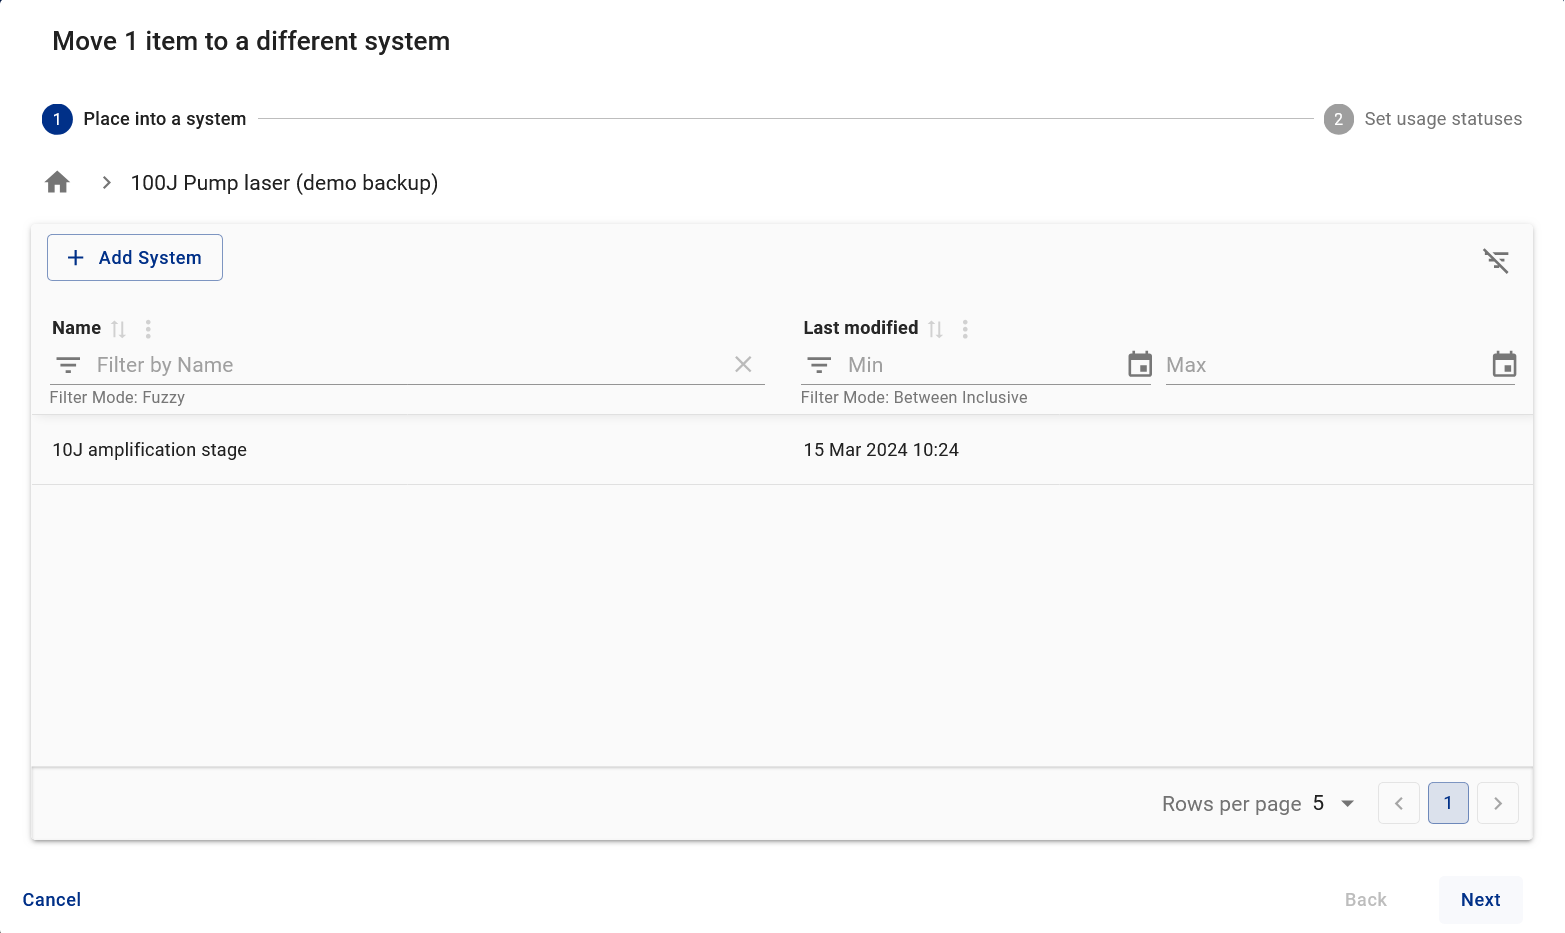
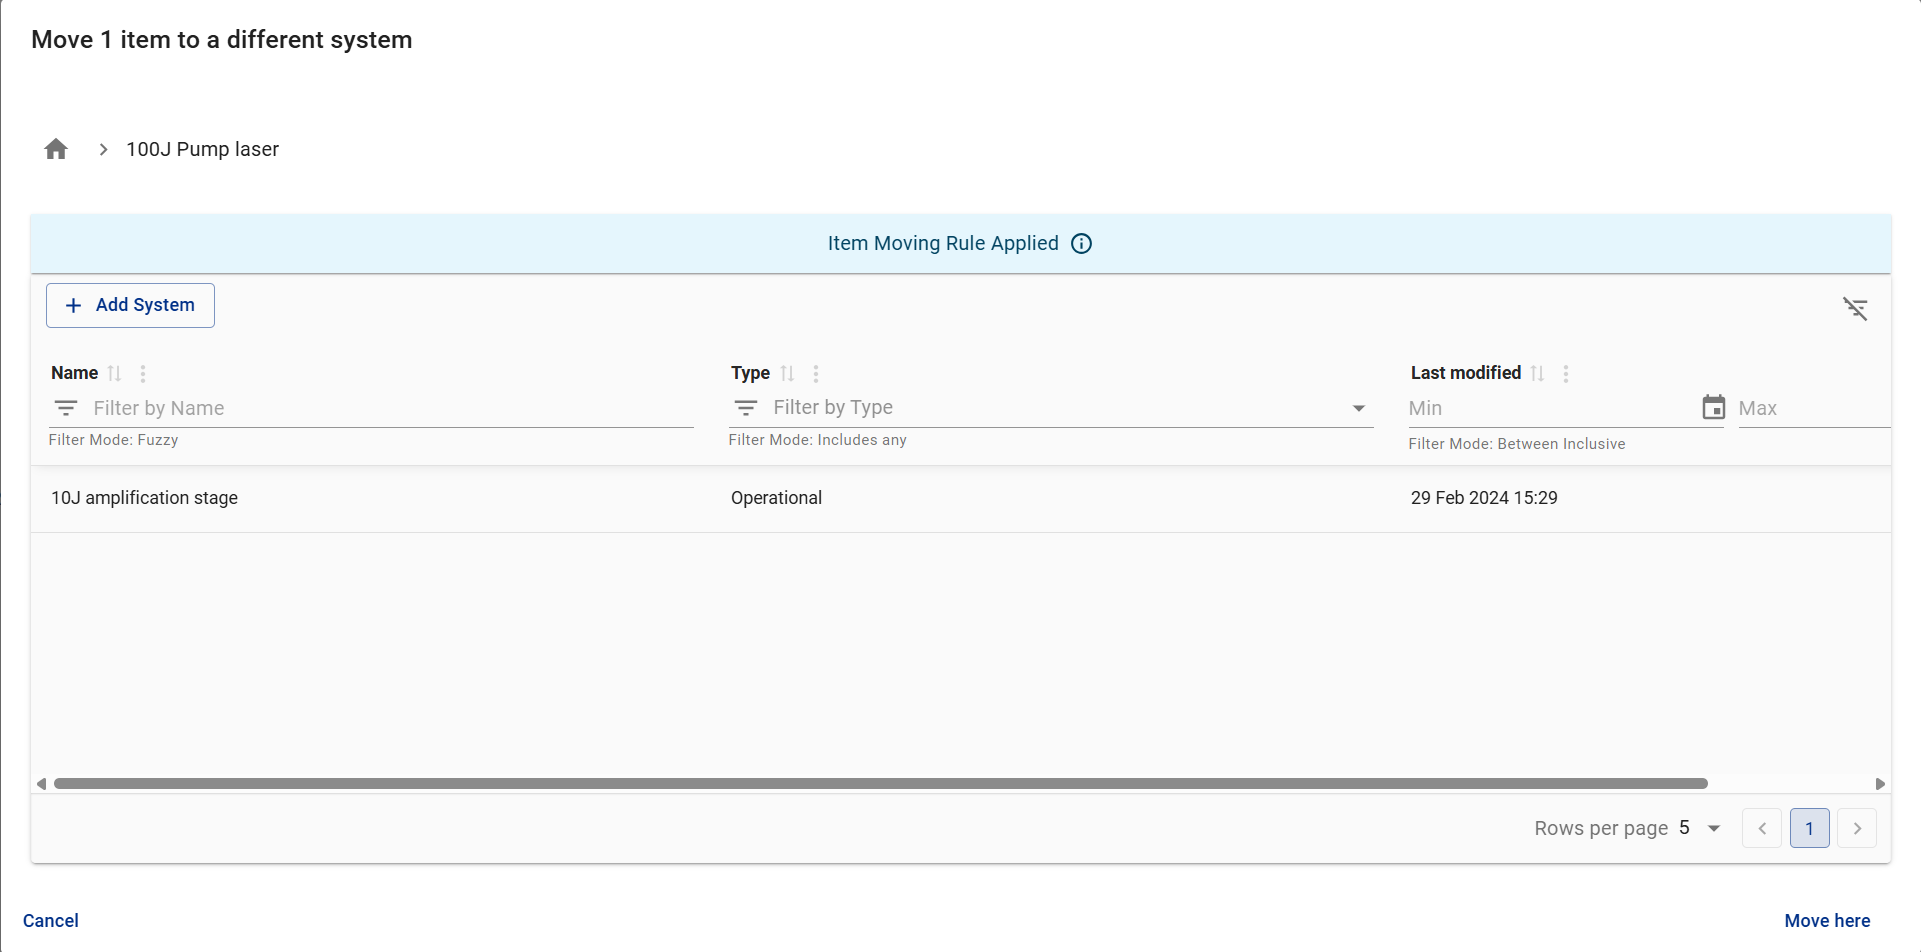
V3 changes

diff --git a/src/app/page.tsx b/src/app/page.tsx
@@ -20,9 +20,9 @@ import React from 'react';
 const sections = [
   { label: 'Introduction', id: 'introduction' },
   { label: 'The Problem', id: 'problem' },
-  { label: 'The Solution', id: 'solution' },
-  { label: 'The Software', id: 'software' },
-  { label: 'Future Work', id: 'future-work' },
+  { label: 'Our Solution', id: 'solution' },
+  { label: 'Applications', id: 'applications' },
+  { label: 'Quick Glance', id: 'overview' },
   { label: 'Contact Us', id: 'contact' },
 ];
 const APP_BAR_HEIGHT = '64px';
@@ -171,7 +171,7 @@ export default function Home() {
       <Container maxWidth="lg" sx={{ py: 6 }}>
         <Box id="title" sx={{ mb: 6, textAlign: 'center' }}>
           <Typography variant="h2" color="primary" gutterBottom>
-            Inventory Management System (IMS)
+            Inventory Management System
           </Typography>
         </Box>
 
@@ -190,13 +190,15 @@ export default function Home() {
         </Box>
 
         <Box id="problem" sx={{ mb: 6, scrollMarginTop: APP_BAR_OFFSET }}>
-          <Typography variant="h4" gutterBottom>
+            <Typography variant="h4" gutterBottom>
             The Problem
           </Typography>
+          
           <Typography variant="body1">
-            Traditional inventory tracking methods such as spreadsheets and
-            static documents struggle to scale with growing operational
-            complexity. As facilities expand, the need for a centralised,
+            Modern research facilities rely on complex infrastructures where downtime 
+            can be costly and disruptive. Traditional inventory tracking methods 
+            such as spreadsheets and static documents struggle to scale with growing 
+            operational complexity. As facilities expand, the need for a centralised,
             dynamic, and scalable inventory solution becomes critical to ensure
             efficiency and reduce downtime.
           </Typography>
@@ -204,15 +206,94 @@ export default function Home() {
 
         <Box id="solution" sx={{ mb: 6, scrollMarginTop: APP_BAR_OFFSET }}>
           <Typography variant="h4" gutterBottom>
-            The Solution
+            Our Solution
           </Typography>
 
           <Typography variant="body1" sx={{ mb: 3 }}>
-            IMS offers a centralised platform for managing inventory across
-            systems. It enhances availability, supports forecasting, reduces
+            IMS offers a centralised web-based platform for managing inventory across
+            systems. Categorise different parts, create individual records for physical entities. Move them 
+between systems, tracking their usage condition. IMS keeps track of spares, so you will 
+always know when the best time to order new parts is. IMS enhances availability, supports forecasting, reduces
             operational costs, and minimises downtime. The system is
             continuously evolving, with new features and improvements being
             released based on user feedback and operational needs.
+          </Typography>
+
+          <Box sx={{ mx: 'auto', width: '100%', maxWidth: 'lg' }}>
+                {/* eslint-disable-next-line @next/next/no-img-element */}
+                <img
+                  src={'/inventory-management-system-project/ims-systems-perspective-detailed.png'}
+                  alt={'IMS architecture overview'}
+                  style={{
+                    width: '100%',
+                    height: 'auto',
+                    borderRadius: 8,
+                    background: '#fff',
+                  }}
+                />
+                <Typography
+                  variant="caption"
+                  display="block"
+                  align="center"
+                  sx={{ my: 1 }}
+                >
+                  <strong>IMS structure overview:</strong> Detailed categorisation, for catalogue items and systems. 
+                  Items which can move dynamically between systems. Our solution provides a comprhensive overview of your inventory.
+                  
+                </Typography>
+              </Box>
+        </Box>
+
+        <Box id="applications" sx={{ mb: 6, scrollMarginTop: APP_BAR_OFFSET }}>
+            <Typography variant="h4" gutterBottom>
+            Applications
+          </Typography>
+          <Typography variant="body1">
+            How can IMS apply to you
+          </Typography>
+          <List sx={{ pl: 3, mb: 2 }}>
+            <ListItem disableGutters>
+              <ListItemText
+                primary={
+                  <Typography variant="body1">
+                    <strong>Transportation & Logistics</strong> - Manage parts for vehicles, equipment, and infrastructure across depots and distribution hubs.
+                  </Typography>
+                }
+              />
+            </ListItem>
+            <ListItem disableGutters>
+              <ListItemText
+                primary={
+                  <Typography variant="body1">
+                    <strong>Manufacturing</strong> - Manage machine components, tooling, and maintenance-critical parts across production lines.
+                  </Typography>
+                }
+              />
+            </ListItem>
+            <ListItem disableGutters>
+              <ListItemText
+                primary={
+                  <Typography variant="body1">
+                    <strong>Healthcare</strong> - Manage parts for equipment used at healthcare facilities.
+                  </Typography>
+                }
+              />
+            </ListItem>
+            <ListItem disableGutters>
+              <ListItemText
+                primary={
+                  <Typography variant="body1">
+                    <strong>Research Facilities</strong> - Manage specialised parts for instruments, laboratories, and experimental infrastructure.
+                  </Typography>
+                }
+              />
+            </ListItem>
+          </List>
+        </Box>
+          
+        <Box id='overview'>
+          <Typography variant="h4" gutterBottom>
+            Quick Glance
           </Typography>
 
           <Typography variant="body1" sx={{ mb: 4 }}>
@@ -230,8 +311,9 @@ export default function Home() {
                     <strong>Catalogue Items Table:</strong> Displays structured
                     commercial representations of physical items, including
                     names, descriptions, lifecycle status, and procurement
-                    details—supporting efficient planning, quoting, and
+                    details - supporting efficient planning, quoting, and
                     inventory management.
+                    Here you can also view the number of <strong>spare items</strong>, a key indicator for when to purchase more inventory.
                   </>
                 ),
               },
@@ -254,7 +336,7 @@ export default function Home() {
                   <>
                     <strong>Subsystem Dashboard:</strong> Offers a comprehensive
                     view of the &apos;100J Pump Laser (Demo Backup)&apos;
-                    subsystem, displaying associated items, metadata, images,
+                    subsystem, displaying its type, associated items, metadata, images,
                     and attachments to support high-priority component tracking
                     and lifecycle management.
                   </>
@@ -265,11 +347,11 @@ export default function Home() {
                 alt: 'Move To Dialog',
                 caption: (
                   <>
-                    <strong>&apos;Move To&apos; Dialog:</strong> Facilitates the
+                    <strong>Moving Items:</strong> The &apos;Move To&apos; Dialog facilitates the
                     transfer of physical items from storage into the &apos;100J
-                    Pump Laser (Demo Backup)&apos; subsystem— ensuring accurate
+                    Pump Laser (Demo Backup)&apos; subsystem - ensuring accurate
                     tracking and seamless integration within the system
-                    hierarchy.
+                    hierarchy. Movement of items between systems is restricted based on rules.
                   </>
                 ),
               },
@@ -299,216 +381,16 @@ export default function Home() {
           </Stack>
         </Box>
 
-        <Box id="software" sx={{ mb: 6, scrollMarginTop: APP_BAR_OFFSET }}>
-          <Typography variant="h4" gutterBottom>
-            The Software
-          </Typography>
-          <Typography variant="body1">
-            IMS is built using a modular microservice architecture:
-          </Typography>
-          <List sx={{ pl: 3, mb: 2 }}>
-            <ListItem disableGutters>
-              <ListItemText
-                primary={
-                  <Typography variant="body1">
-                    <Link
-                      href="https://github.com/ral-facilities/inventory-management-system-api"
-                      target="_blank"
-                      rel="noopener"
-                      fontWeight="bold"
-                      underline="hover"
-                    >
-                      IMS API
-                    </Link>{' '}
-                    – Manages core inventory entities such as items and
-                    catalogues.
-                  </Typography>
-                }
-              />
-            </ListItem>
-            <ListItem disableGutters>
-              <ListItemText
-                primary={
-                  <Typography variant="body1">
-                    <Link
-                      href="https://github.com/ral-facilities/object-storage-api"
-                      target="_blank"
-                      rel="noopener"
-                      fontWeight="bold"
-                      underline="hover"
-                    >
-                      Object Storage API
-                    </Link>{' '}
-                    – Handles file attachments and images.
-                  </Typography>
-                }
-              />
-            </ListItem>
-            <ListItem disableGutters>
-              <ListItemText
-                primary={
-                  <Typography variant="body1">
-                    <Link
-                      href="https://github.com/ral-facilities/ldap-jwt-auth"
-                      target="_blank"
-                      rel="noopener"
-                      fontWeight="bold"
-                      underline="hover"
-                    >
-                      LDAP JWT Auth
-                    </Link>{' '}
-                    – Provides secure access using token-based authentication.
-                  </Typography>
-                }
-              />
-            </ListItem>
-          </List>
-          <Typography variant="body1">
-            The frontend is composed of micro frontends for flexibility and
-            scalability:
-          </Typography>
-          <List sx={{ pl: 3 }}>
-            <ListItem disableGutters>
-              <ListItemText
-                primary={
-                  <Typography variant="body1">
-                    <Link
-                      href="https://github.com/ral-facilities/inventory-management-system"
-                      target="_blank"
-                      rel="noopener"
-                      fontWeight="bold"
-                      underline="hover"
-                    >
-                      IMS UI
-                    </Link>{' '}
-                    – User interface for interacting with inventory data.
-                  </Typography>
-                }
-              />
-            </ListItem>
-            <ListItem disableGutters>
-              <ListItemText
-                primary={
-                  <Typography variant="body1">
-                    <Link
-                      href="https://github.com/ral-facilities/scigateway"
-                      target="_blank"
-                      rel="noopener"
-                      fontWeight="bold"
-                      underline="hover"
-                    >
-                      SciGateway UI
-                    </Link>{' '}
-                    – Manages authentication and navigation across modules.
-                  </Typography>
-                }
-              />
-            </ListItem>
-          </List>
-          {/* eslint-disable-next-line @next/next/no-img-element */}
-          <img
-            src="/inventory-management-system-project/ims-architecture-diagram.png"
-            alt="IMS Architecture Diagram"
-            style={{
-              width: '100%',
-              maxWidth: 'lg',
-              height: 'auto',
-              marginTop: '20px',
-            }}
-          />
-          <Typography
-            variant="caption"
-            display="block"
-            align="center"
-            sx={{ mt: 1 }}
-          >
-            IMS Architecture Diagram
-          </Typography>
-        </Box>
-
-        <Box id="future-work" sx={{ mb: 6, scrollMarginTop: APP_BAR_OFFSET }}>
-          <Typography variant="h4" gutterBottom>
-            Future Work
-          </Typography>
-          <Typography variant="body1">
-            The following are potential future work items and planned
-            improvements for IMS:
-          </Typography>
-          <List sx={{ pl: 3 }}>
-            <ListItem disableGutters>
-              <ListItemText
-                primary={
-                  <Typography variant="body1">
-                    <strong>Observability</strong> – Introduce observability
-                    tools to collect and analyse telemetry data, providing
-                    deeper insights into system performance and health. This
-                    will enable faster issue detection and improved
-                    troubleshooting.
-                  </Typography>
-                }
-              />
-            </ListItem>
-            <ListItem disableGutters>
-              <ListItemText
-                primary={
-                  <Typography variant="body1">
-                    <strong>Kubernetes</strong> – Transition from Docker Compose
-                    to a Kubernetes type of deployment to improve scalability,
-                    reliability, and deployment automation. This will allow
-                    better workload management, support for high availability,
-                    and streamlined integration with Continuous Integration and
-                    Continuous Delivery/Deployment pipelines.
-                  </Typography>
-                }
-              />
-            </ListItem>
-            <ListItem disableGutters>
-              <ListItemText
-                primary={
-                  <Typography variant="body1">
-                    <strong>History</strong> – Keep a history of edits made to
-                    the entities. For example, tracking the history of every
-                    single position/location of an optic will allow users to see
-                    where it has moved throughout its lifetime. They will also
-                    be able to work out how many optics have been damaged in a
-                    particular location.
-                  </Typography>
-                }
-              />
-            </ListItem>
-            <ListItem disableGutters>
-              <ListItemText
-                primary={
-                  <Typography variant="body1">
-                    <strong>Criticality &amp; Spares</strong> – Calculate the
-                    number of spare items in stock and how many are needed to be
-                    kept for each catalogue item to ensure the continuous
-                    operation of the facility.
-                  </Typography>
-                }
-              />
-            </ListItem>
-            <ListItem disableGutters>
-              <ListItemText
-                primary={
-                  <Typography variant="body1">
-                    <strong>Single Sign-On (SSO)</strong> – Migrate from
-                    Lightweight Directory Access Protocol-based authentication
-                    to SSO to enhance user authentication, security, and user
-                    experience.
-                  </Typography>
-                }
-              />
-            </ListItem>
-          </List>
-        </Box>
-
-        <Box id="contact" sx={{ mb: 6, scrollMarginTop: APP_BAR_OFFSET }}>
+        <Box id="contact" sx={{ mb: 6, scrollMarginTop: APP_BAR_OFFSET, paddingTop: '32px' }}>
           <Typography variant="h4" gutterBottom>
             Contact Us
           </Typography>
           <Typography variant="body1">
-            Please reach out via GitHub or email the development team.
+            Please email the development team at{' '}
+            <a href="mailto:ims-support@stfc365.onmicrosoft.com?subject=IMS Query">
+              ims-support@stfc365.onmicrosoft.com
+            </a>
+            for any enquiries.
           </Typography>
         </Box>
       </Container>
